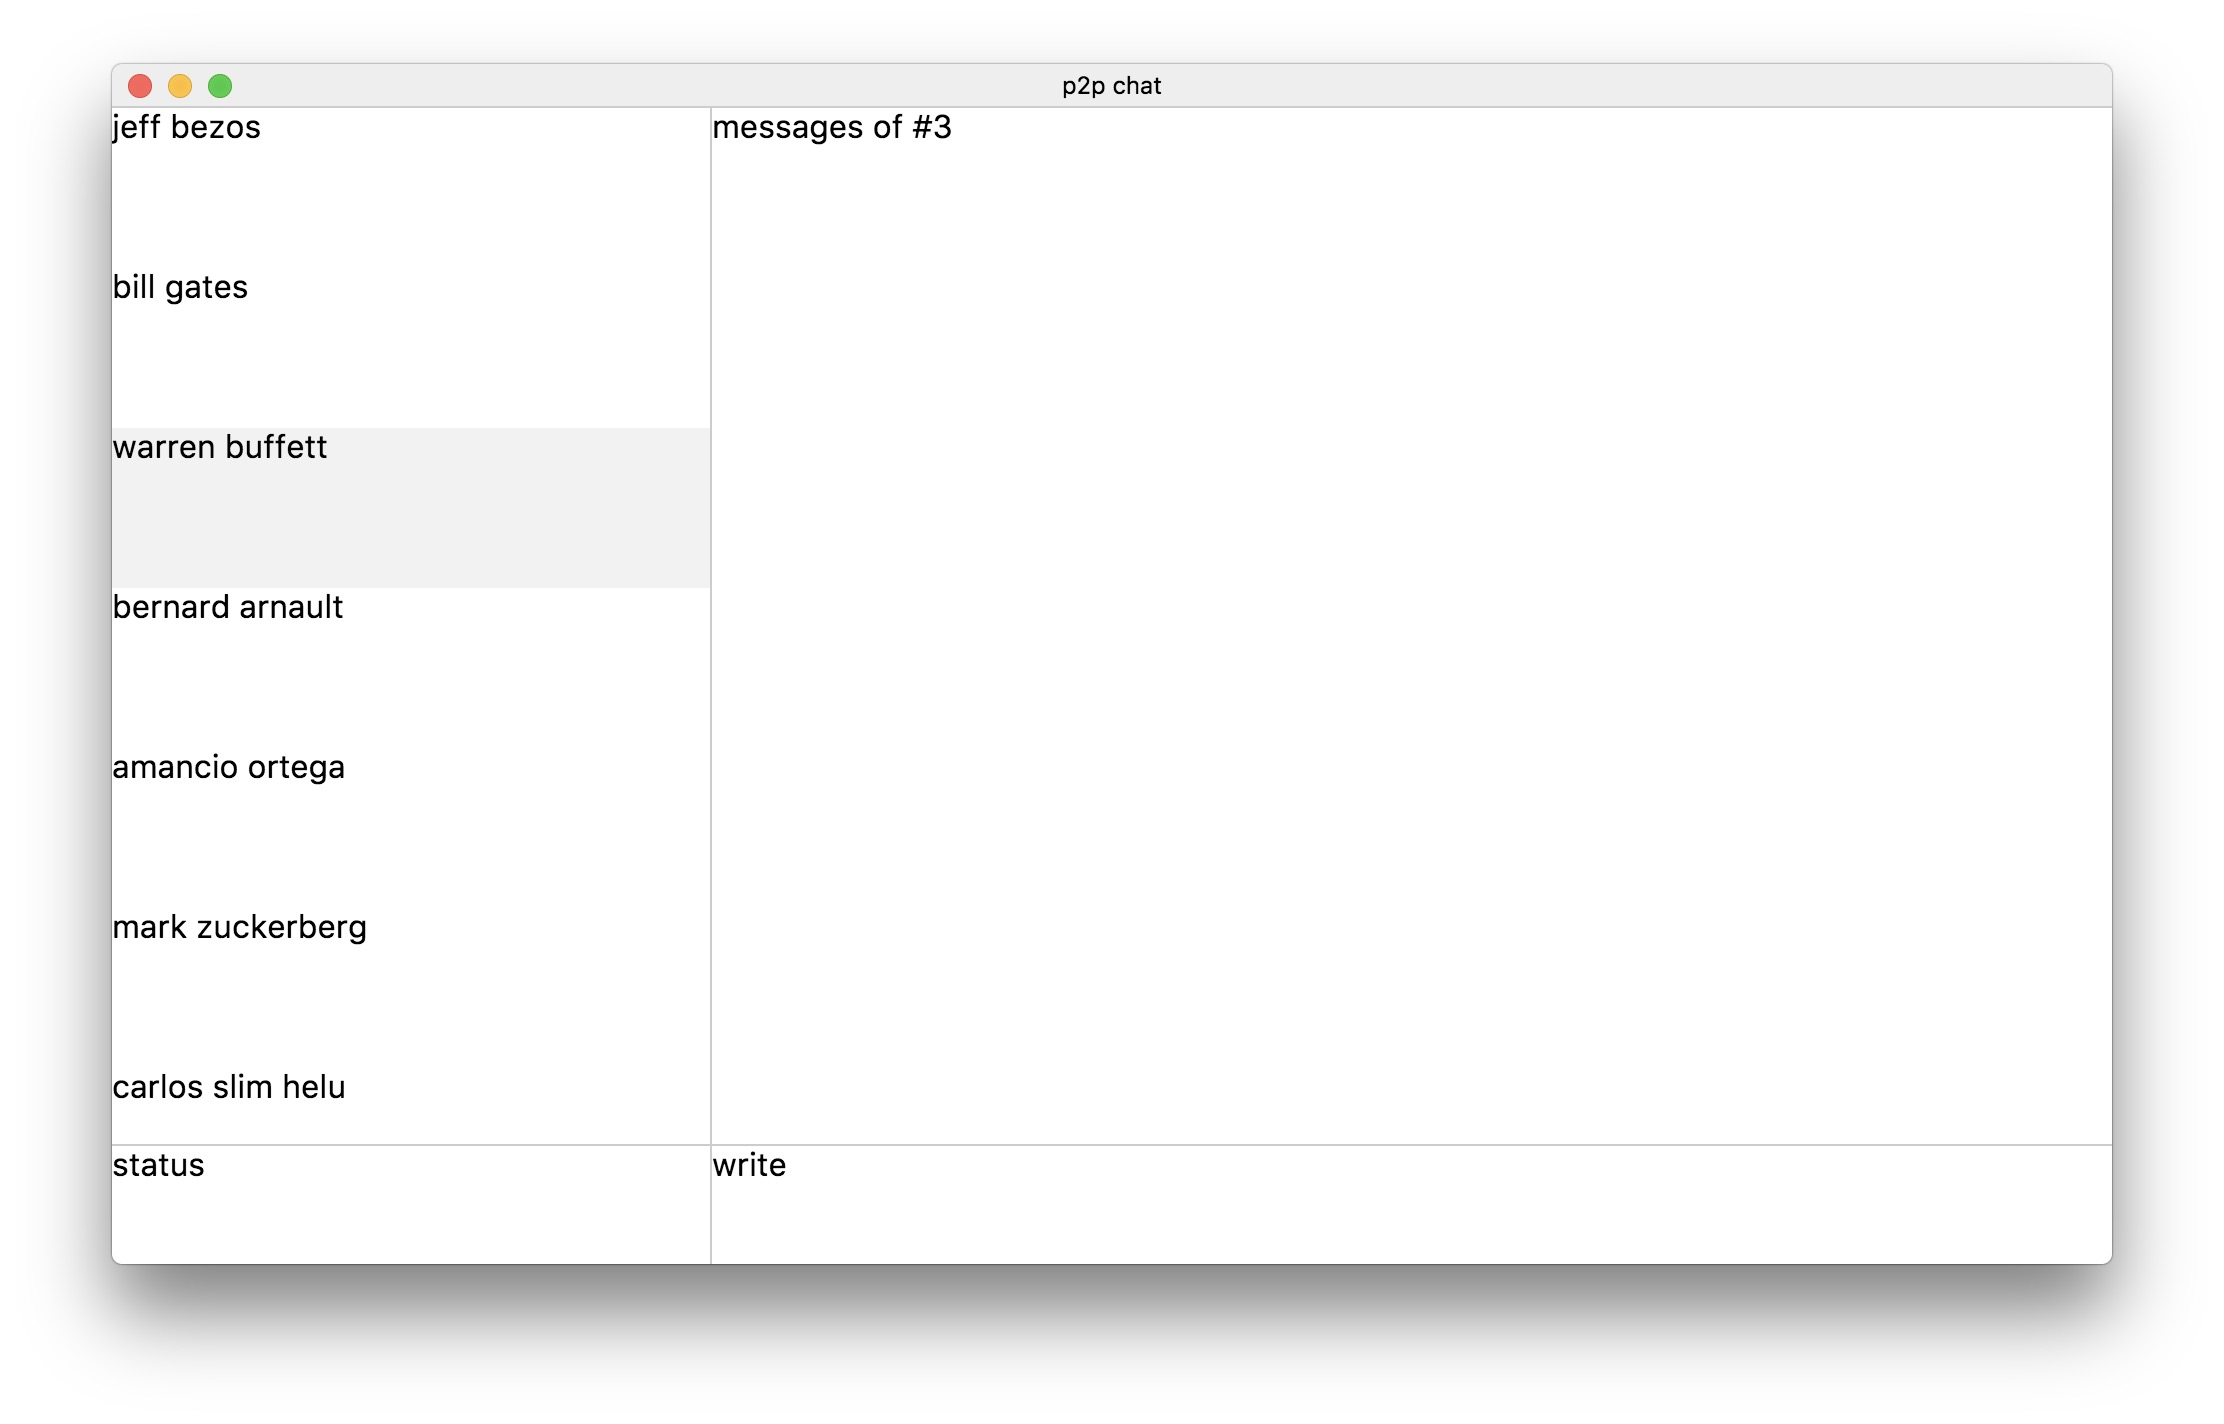
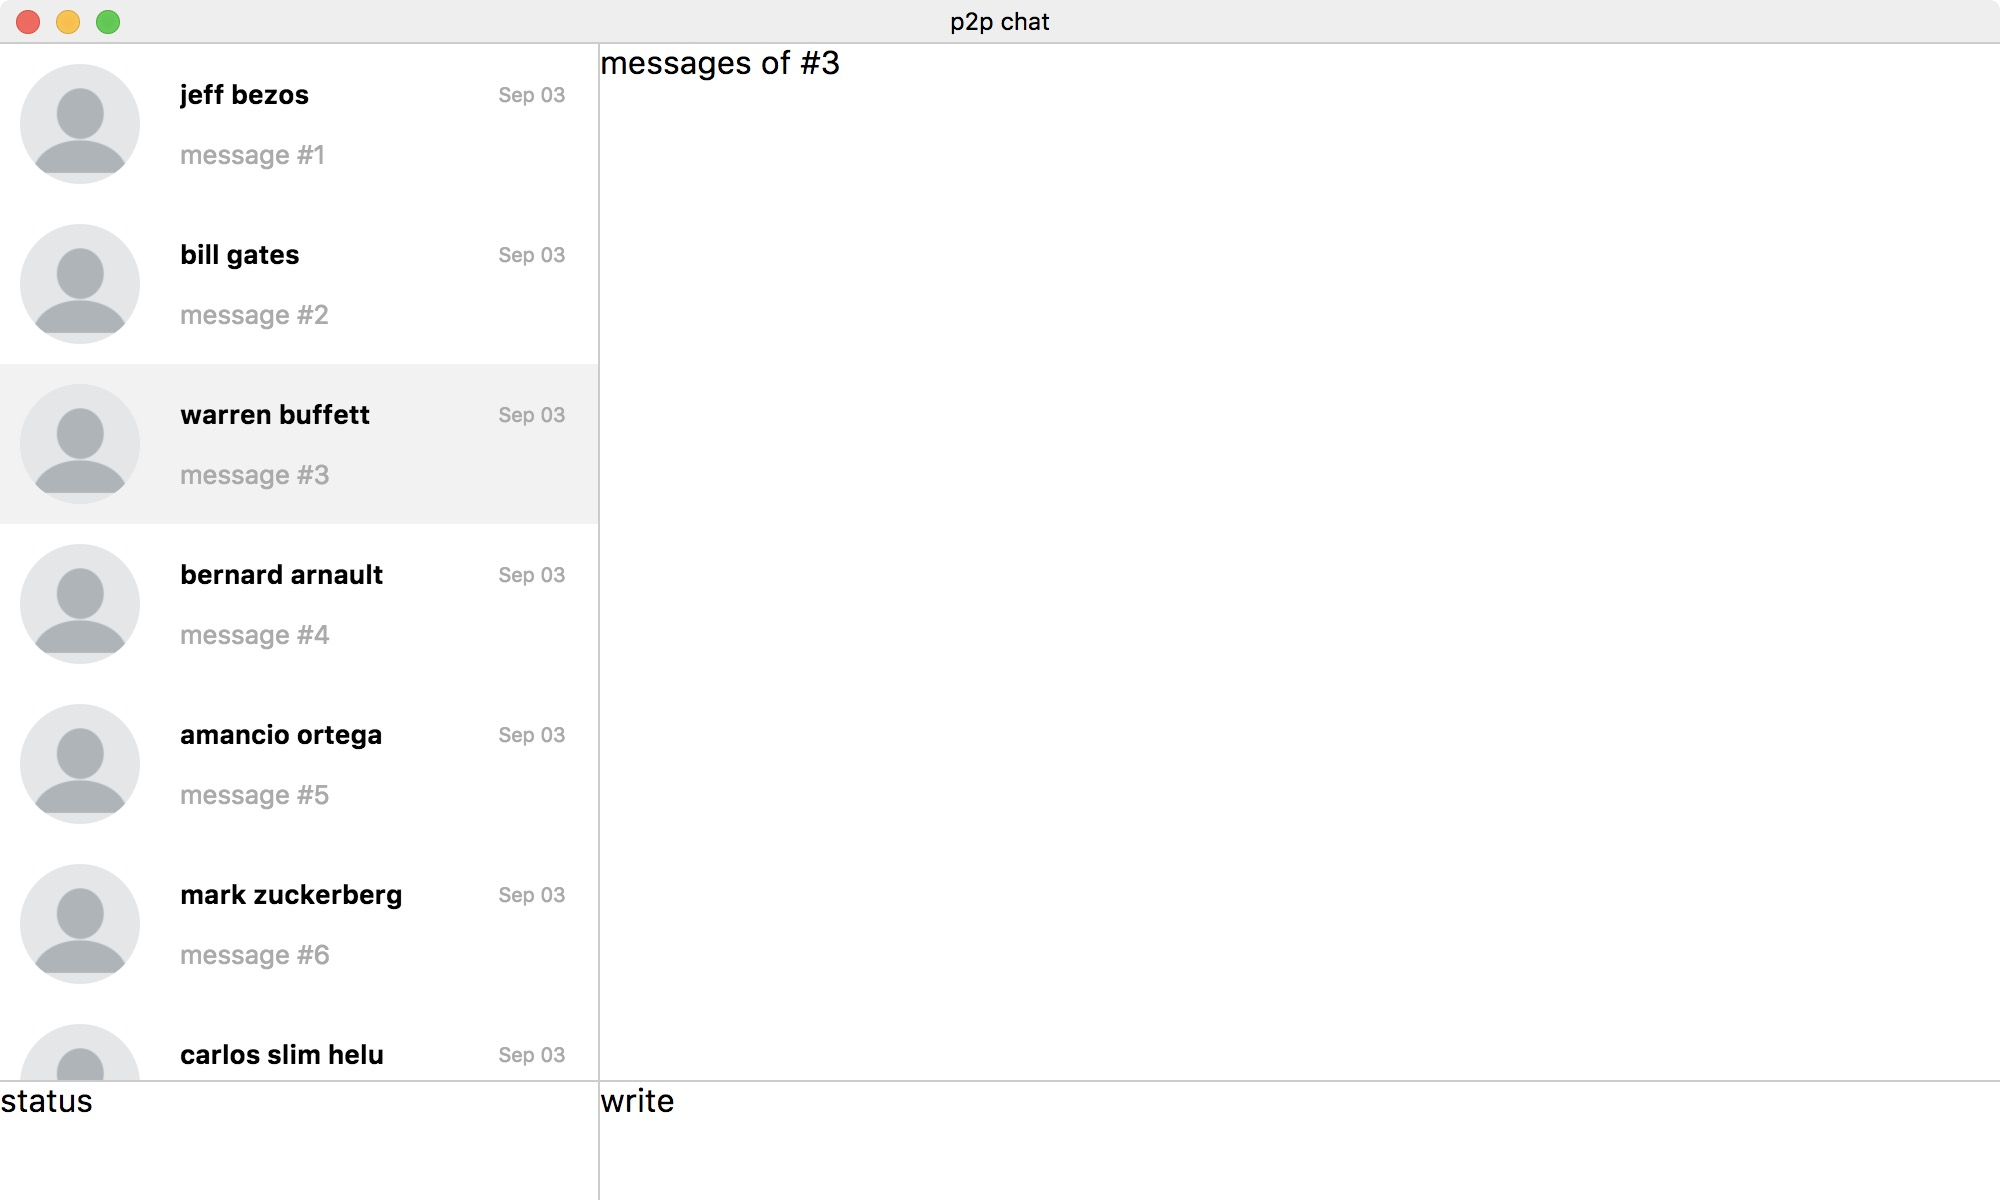
Persons section has a new view.

diff --git a/src/css/style.scss b/src/css/style.scss
@@ -7,6 +7,9 @@ $statusAndWriteHeight: 60px;
 $personsAndMessagesHeight: calc(100% - #{$statusAndWriteHeight});
 $personHeight: 80px;
 $personSelectedBackgroundColor: #f2f2f2;
+$personLeftWidth: $personHeight;
+$personRightWidth: $leftWidth - $personLeftWidth - 1px;
+$personNameLineHeight: ($personHeight - 20px) / 2;
 
 * {
   box-sizing: border-box;
@@ -48,8 +51,57 @@ body, html, #root, #root2 {
 
     .person {
       height: $personHeight;
+
       &.selected {
         background-color: $personSelectedBackgroundColor;
+      }
+
+      .personLeft {
+        float: left;
+        padding: 10px;
+        width: $personLeftWidth;
+
+        .profilePicture {
+          float: left;
+          width: $personLeftWidth - 20px;
+          height: $personLeftWidth - 20px;
+
+          img {
+            width: 100%;
+            height: 100%;
+            border-radius: 50%;
+          }
+        }
+      }
+
+      .personRight {
+        float: left;
+        color: #aaa;
+        padding: 10px;
+        font-size: 13px;
+        width: $personRightWidth;
+
+        .name {
+          width: 80%;
+          color: #000;
+          float: left;
+          font-weight: bold;
+          overflow: hidden;
+          line-height: $personNameLineHeight;
+        }
+
+        .date {
+          width: 20%;
+          float: right;
+          font-size: 10px;
+          line-height: $personNameLineHeight;
+        }
+
+        .lastMessage {
+          clear: both;
+          overflow: hidden;
+          line-height: $personNameLineHeight;
+        }
       }
     }
   }

diff --git a/src/js/index.jsx b/src/js/index.jsx
@@ -22,7 +22,22 @@ class Persons extends React.Component {
 
       return (
         <div key={person['id']} className={className} onClick={this.changeSelectedPerson.bind(this, person['id'])}>
-          {person['name']}
+          <div className='personLeft'>
+            <div className='profilePicture'>
+              <img src='http://www.personalbrandingblog.com/wp-content/uploads/2017/08/blank-profile-picture-973460_640-300x300.png' />
+            </div>
+          </div>
+          <div className='personRight'>
+            <div className='name'>
+              {person['name']}
+            </div>
+            <div className='date'>
+              Sep 03
+            </div>
+            <div className='lastMessage'>
+              message #{person['id']}
+            </div>
+          </div>
         </div>
       )
     })
